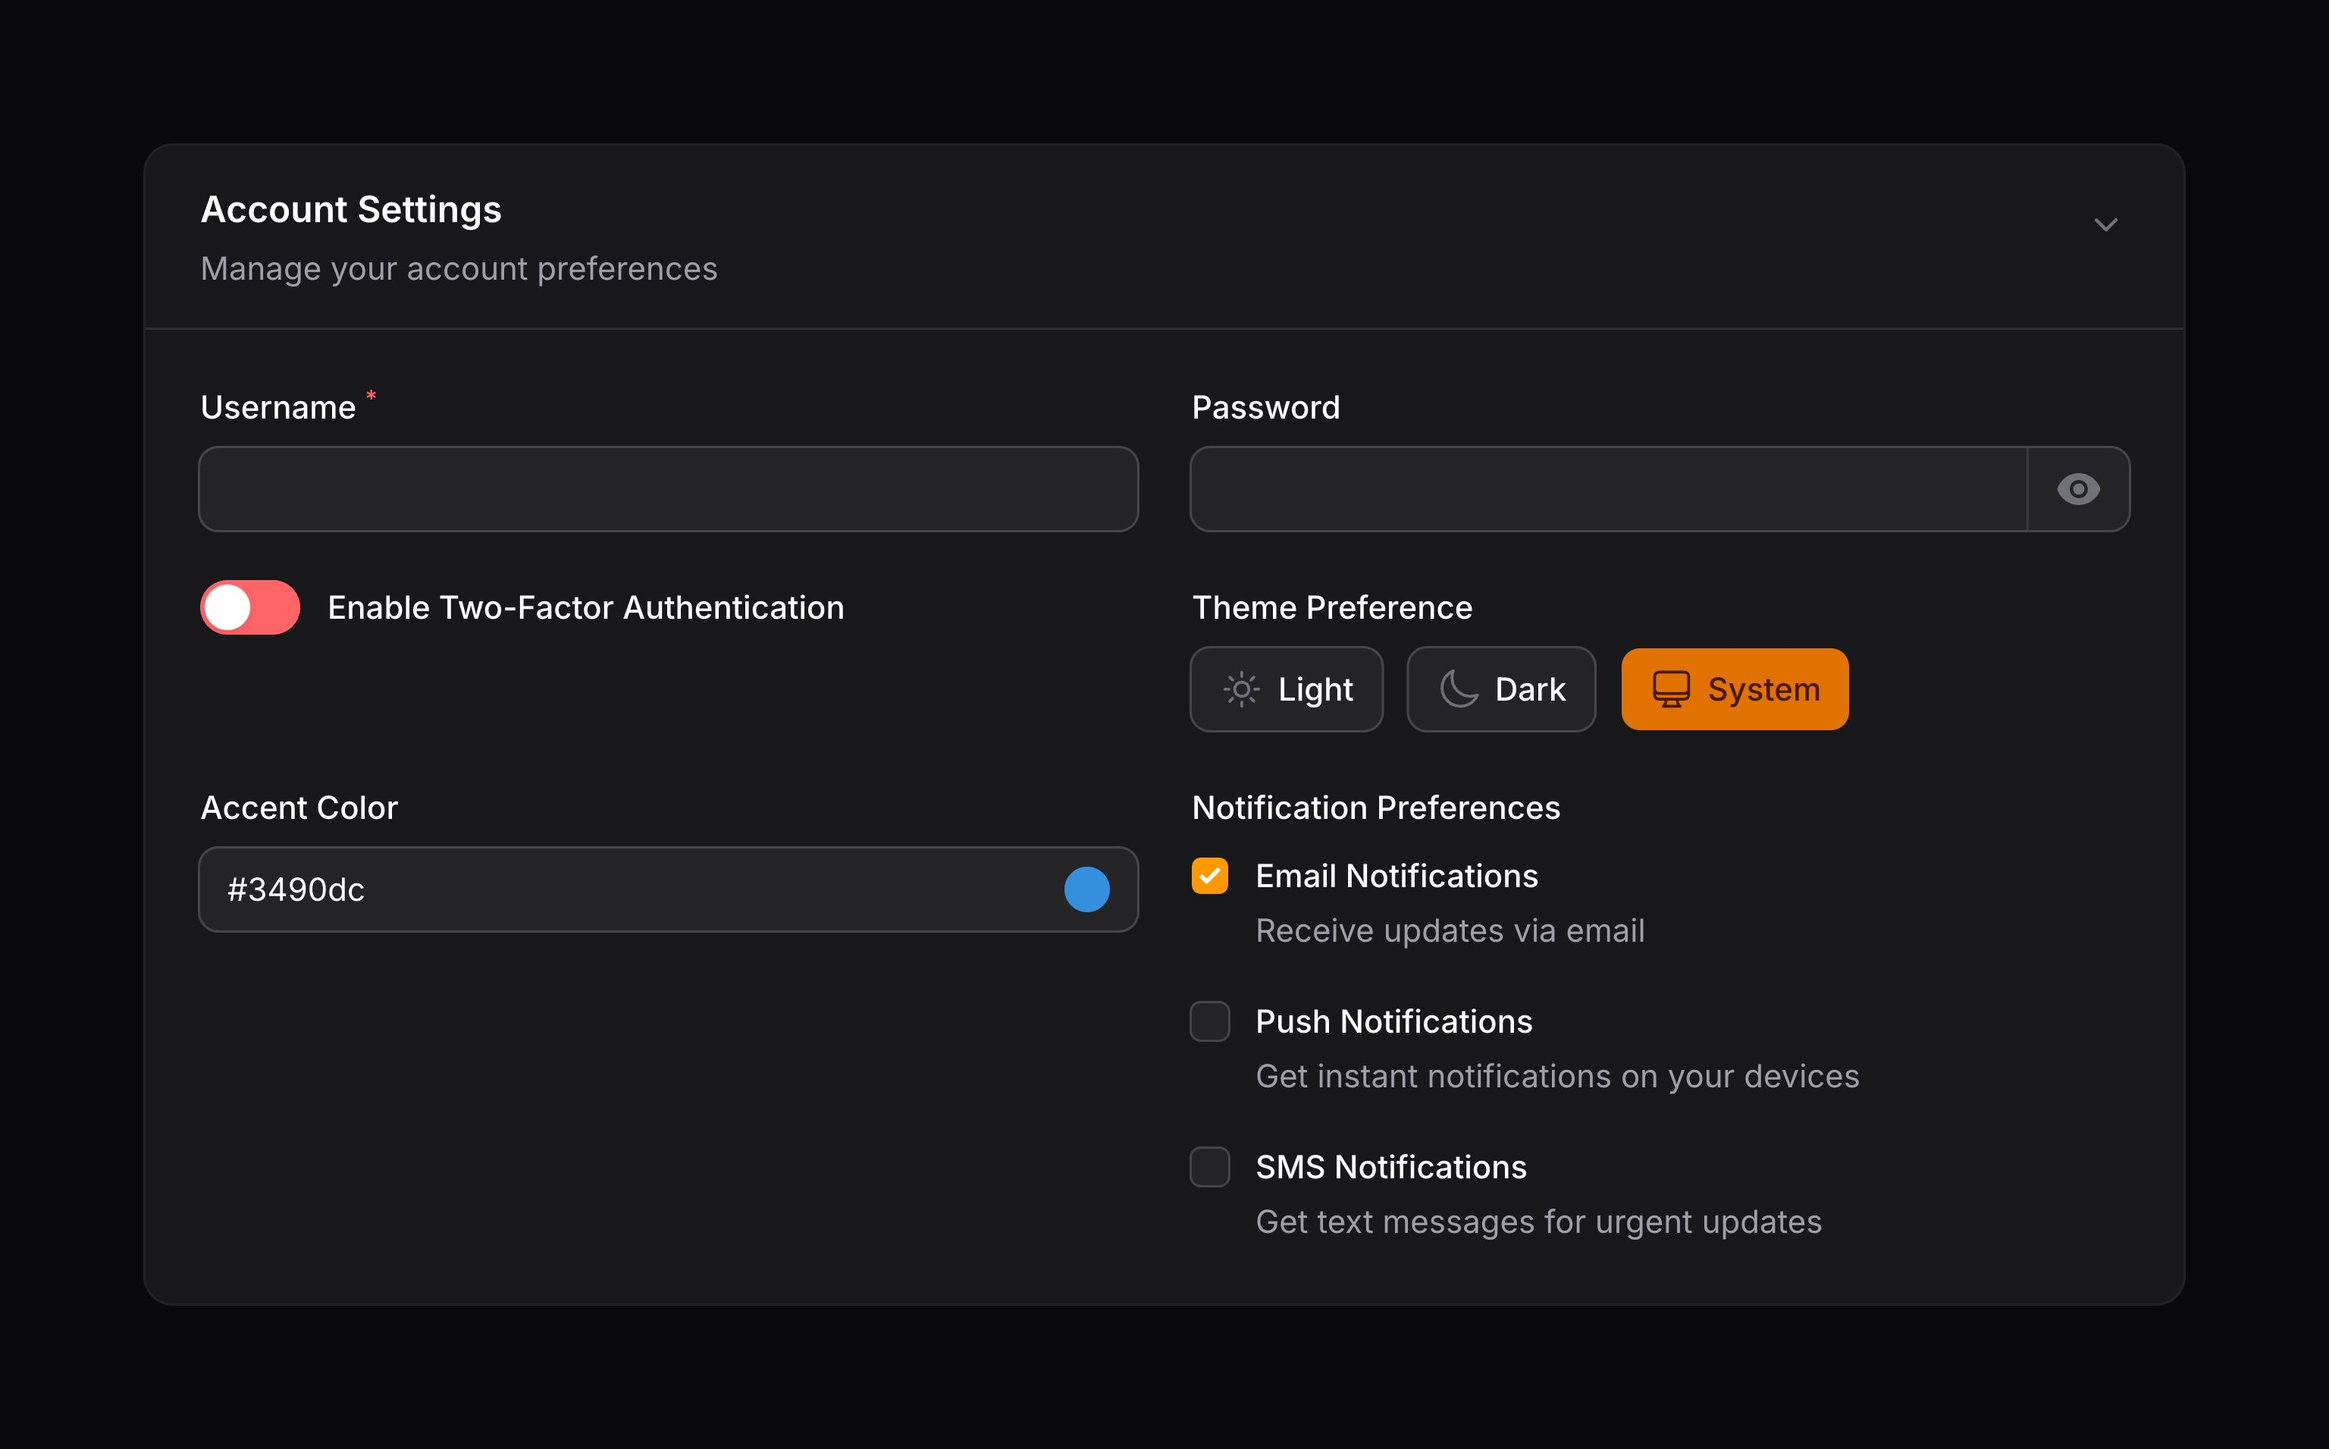
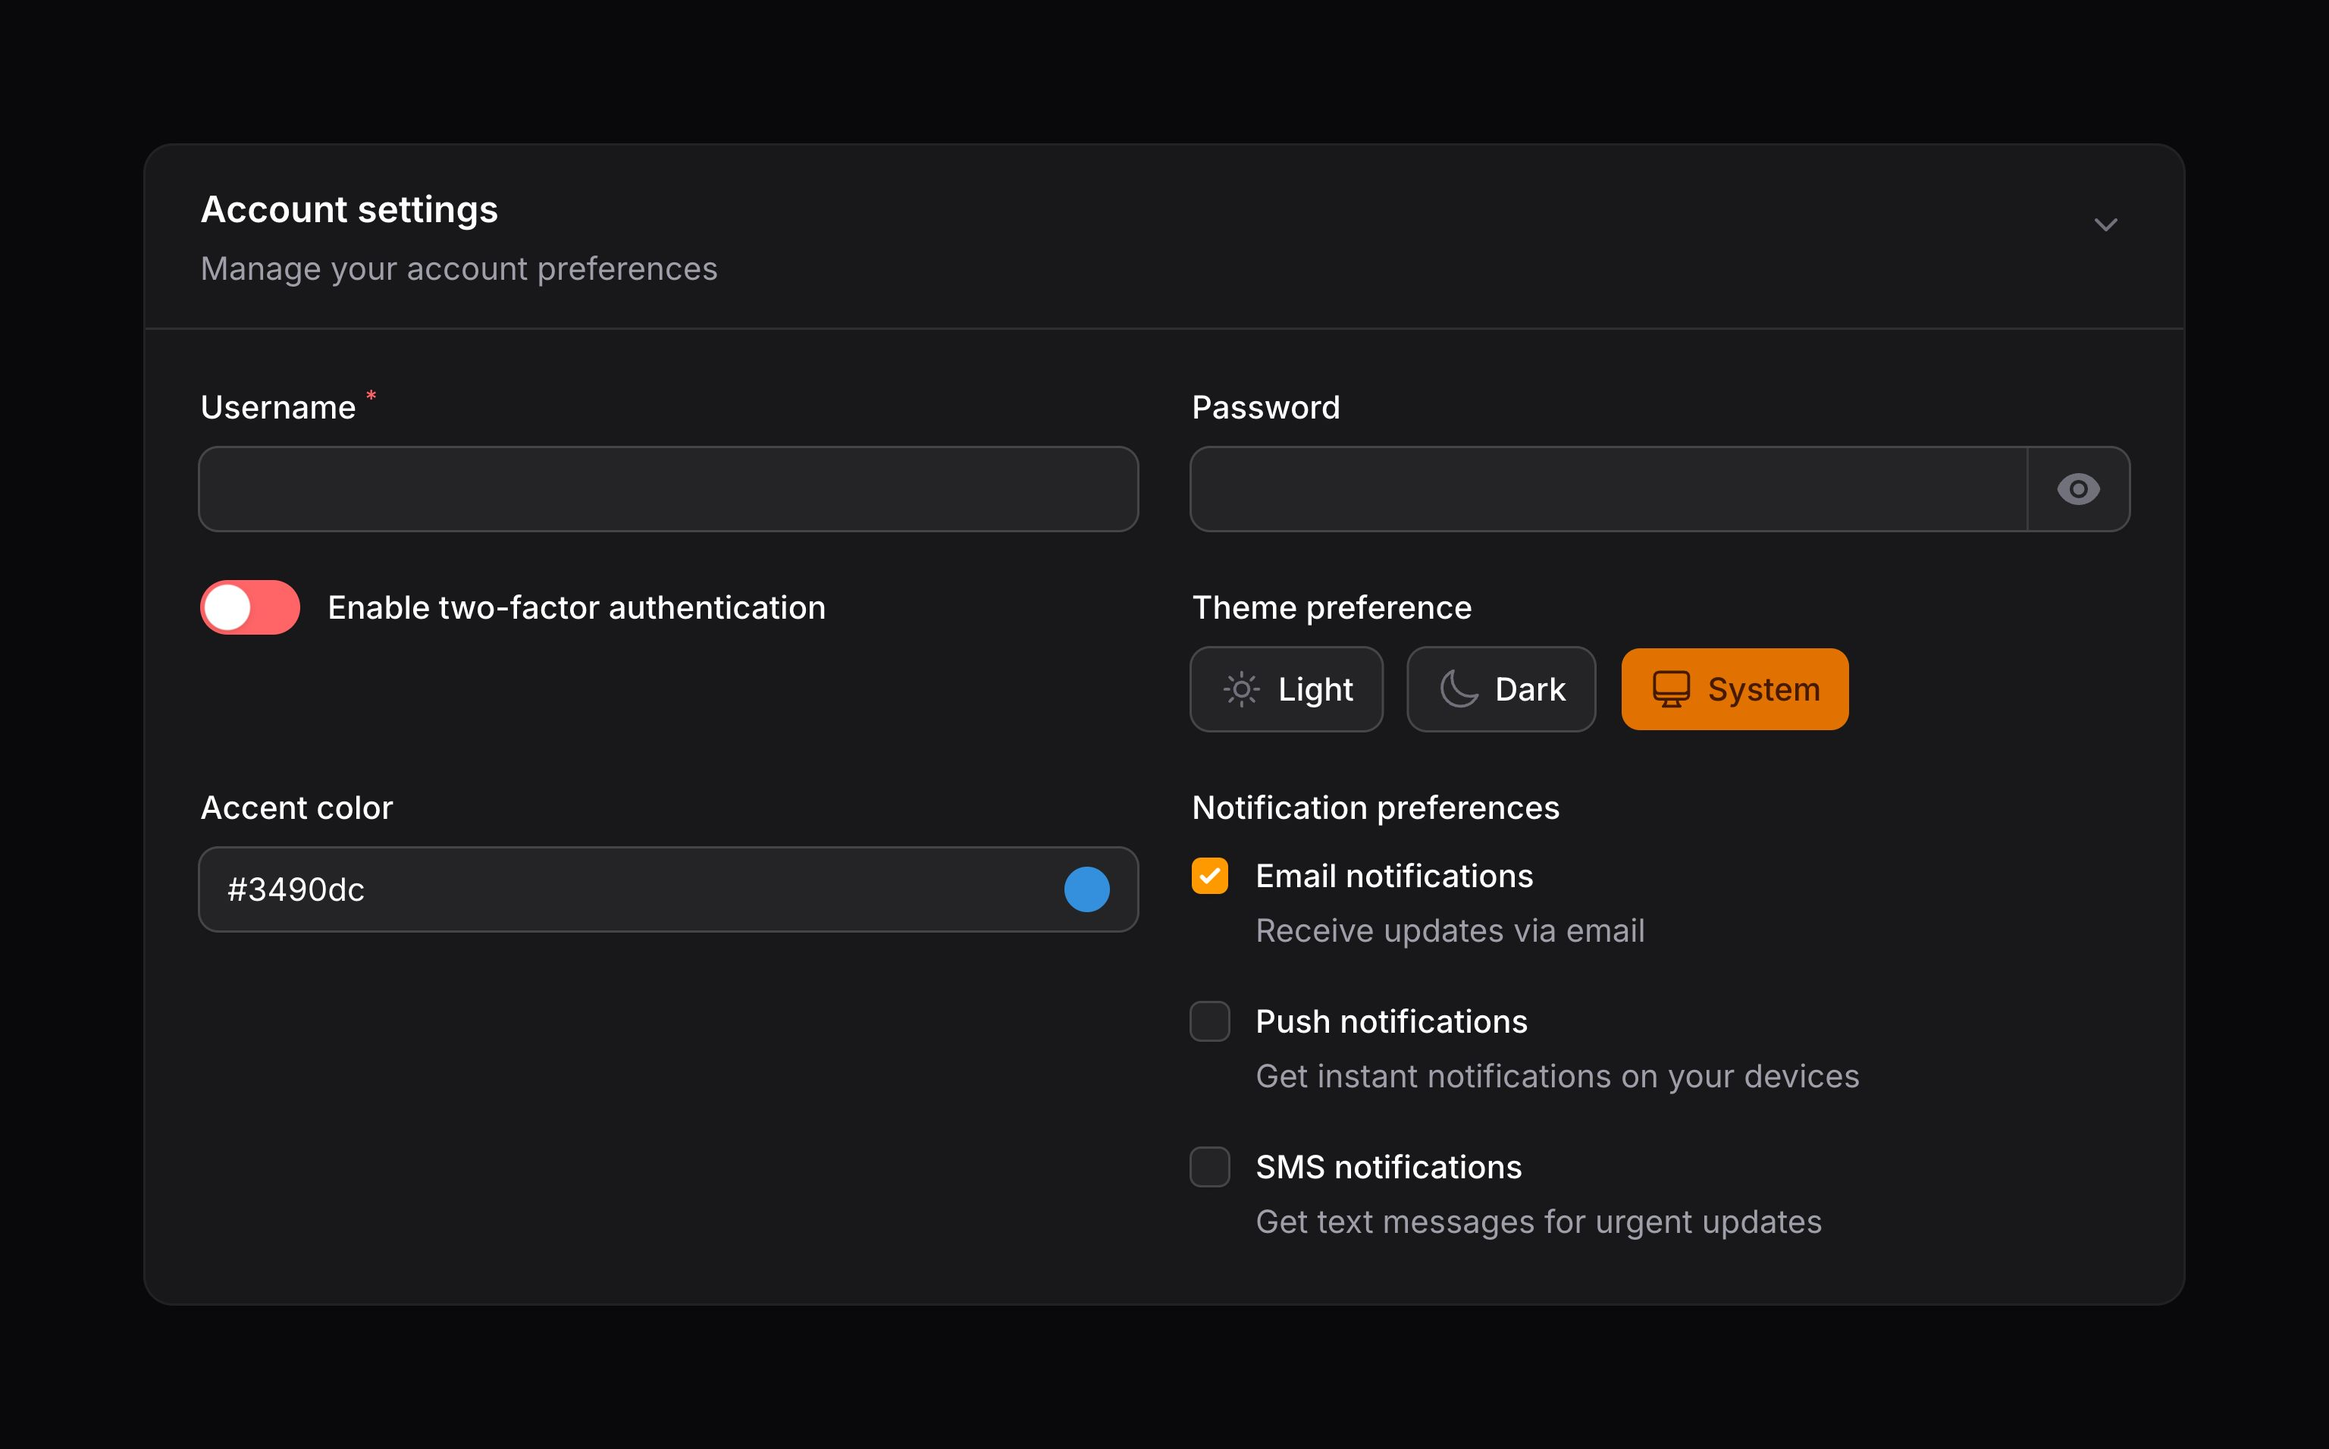
clean up

diff --git a/docs-assets/app/vite.config.js b/docs-assets/app/vite.config.js
@@ -1,5 +1,5 @@
 import { defineConfig } from 'vite'
-import laravel, {refreshPaths} from 'laravel-vite-plugin'
+import laravel, { refreshPaths } from 'laravel-vite-plugin'
 import tailwindcss from '@tailwindcss/vite'
 
 export default defineConfig({

diff --git a/docs-assets/app/app/Livewire/Infolists/EntriesOverview.php b/docs-assets/app/app/Livewire/Infolists/EntriesOverview.php
@@ -38,7 +38,7 @@ class EntriesOverview extends Component implements HasSchemas
                         'class' => 'p-16 max-w-6xl',
                     ])
                     ->schema([
-                        Section::make('Product Information')
+                        Section::make('Product information')
                             ->description('Detailed information about the product')
                             ->icon(Heroicon::Wallet)
                             ->collapsible()
@@ -48,7 +48,7 @@ class EntriesOverview extends Component implements HasSchemas
                                 Grid::make(3)
                                     ->schema([
                                         TextEntry::make('name')
-                                            ->label('Product Name')
+                                            ->label('Product name')
                                             ->weight(FontWeight::Bold)
                                             ->size(TextSize::Large)
                                             ->state('Premium Ergonomic Office Chair')
@@ -68,20 +68,20 @@ class EntriesOverview extends Component implements HasSchemas
                                             ->color('gray'),
 
                                         TextEntry::make('status')
-                                            ->label('Stock Status')
+                                            ->label('Stock status')
                                             ->state('in_stock')
                                             ->badge()
-                                            ->formatStateUsing(fn(string $state) => str($state)
+                                            ->formatStateUsing(fn (string $state) => str($state)
                                                 ->replace('_', ' ')
                                                 ->title()
                                             )
-                                            ->icon(fn(string $state): string => match ($state) {
+                                            ->icon(fn (string $state): string => match ($state) {
                                                 'in_stock' => 'heroicon-o-check-circle',
                                                 'low_stock' => 'heroicon-o-exclamation-circle',
                                                 'out_of_stock' => 'heroicon-o-x-circle',
                                                 default => 'heroicon-o-question-mark-circle',
                                             })
-                                            ->color(fn(string $state): string => match ($state) {
+                                            ->color(fn (string $state): string => match ($state) {
                                                 'in_stock' => 'success',
                                                 'low_stock' => 'warning',
                                                 'out_of_stock' => 'danger',
@@ -98,36 +98,26 @@ class EntriesOverview extends Component implements HasSchemas
 
                                         ImageEntry::make('product_image')
                                             ->state('https://cdn.pixabay.com/photo/2021/09/26/11/44/chair-6657315_1280.jpg')
-                                            ->columnSpan(1)
-                                            ->extraImgAttributes([
-                                                'class' => 'rounded-lg max-w-[180px] shadow-md hover:shadow-xl transition-shadow duration-300',
-                                                'alt' => 'Premium Ergonomic Office Chair',
-                                            ]),
+                                            ->columnSpan(1),
                                     ]),
                             ]),
 
-                        Section::make('Pricing & Features')
+                        Section::make('Pricing & features')
                             ->icon(Heroicon::CurrencyDollar)
                             ->description('Information about pricing and features')
                             ->collapsible()
                             ->columnSpan(['lg' => 1])
-                            ->extraAttributes([
-                                'class' => 'rounded-xl',
-                            ])
                             ->schema([
                                 TextEntry::make('price')
                                     ->state('249.99')
                                     ->prefix('$')
                                     ->weight(FontWeight::Bold)
                                     ->size(TextSize::Large)
-                                    ->label('Price')
                                     ->suffix(' USD')
-                                    ->extraAttributes([
-                                        'class' => 'text-primary-600 dark:text-primary-400',
-                                    ]),
+                                    ->color('primary'),
 
                                 IconEntry::make('featured')
-                                    ->label('Featured Product')
+                                    ->label('Featured product')
                                     ->state(true)
                                     ->boolean()
                                     ->trueIcon(Heroicon::Star)
@@ -136,11 +126,8 @@ class EntriesOverview extends Component implements HasSchemas
                                     ->size(IconSize::Large),
 
                                 ColorEntry::make('color_options')
-                                    ->label('Available Colors')
+                                    ->label('Available colors')
                                     ->state(['#000000', '#0047AB', '#8B4513'])
-                                    ->extraAttributes([
-                                        'class' => 'mt-2',
-                                    ])
                                     ->afterStateHydrated(function (ColorEntry $component, array $state) {
                                         $component->tooltip(function (string $color) {
                                             return match ($color) {
@@ -162,11 +149,11 @@ class EntriesOverview extends Component implements HasSchemas
                                         KeyValueEntry::make('specifications')
                                             ->label(false)
                                             ->state([
-                                                'Material' => 'Mesh, Aluminum, High-grade Plastic',
-                                                'Weight Capacity' => '300 lbs',
-                                                'Height Adjustment' => '17" to 21"',
-                                                'Warranty' => '5 Years Limited',
-                                                'Assembly Required' => 'Yes (Tools Included)',
+                                                'Material' => 'Mesh, aluminum, high-grade plastic',
+                                                'Weight capacity' => '300 lbs',
+                                                'Height adjustment' => '17" to 21"',
+                                                'Warranty' => '5 years limited',
+                                                'Assembly required' => 'Yes (Tools Included)',
                                             ])
                                             ->keyLabel('Specification')
                                             ->valueLabel('Details'),
@@ -174,34 +161,9 @@ class EntriesOverview extends Component implements HasSchemas
 
                                 Tabs\Tab::make('Reviews')
                                     ->icon(Heroicon::OutlinedPencilSquare)
-                                    ->badge(fn() => 3)
-                                    ->schema([
-                                        RepeatableEntry::make('reviews')
-                                            ->label(false)
-                                            ->schema([
-                                                TextEntry::make('name')
-                                                    ->label('Reviewer')
-                                                    ->weight(FontWeight::Medium),
-
-                                                TextEntry::make('stars')
-                                                    ->label('Rating')
-                                                    ->formatStateUsing(fn(string $state): string => str_repeat('★', (int)$state) . str_repeat('☆', 5 - (int)$state))
-                                                    ->color(fn(string $state) => (int)$state >= 4 ? 'success' : ((int)$state >= 3 ? 'warning' : 'danger')),
-
-                                                TextEntry::make('comment')
-                                                    ->label('Review')
-                                                    ->markdown(),
-                                            ])
-                                            ->contained()
-                                            ->extraAttributes([
-                                                'class' => 'space-y-4',
-                                            ]),
-                                    ]),
+                                    ->badge(fn () => 3),
                             ])
-                            ->columnSpan(['lg' => 3])
-                            ->extraAttributes([
-                                'class' => 'mt-6',
-                            ]),
+                            ->columnSpan(['lg' => 3]),
                     ])
             ])
             ->constantState([

diff --git a/docs-assets/app/app/Livewire/Forms/FieldsOverview.php b/docs-assets/app/app/Livewire/Forms/FieldsOverview.php
@@ -41,7 +41,7 @@ class FieldsOverview extends Component implements HasActions, HasSchemas
                         'class' => 'p-16 max-w-5xl',
                     ])
                     ->schema([
-                        Section::make('Account Settings')
+                        Section::make('Account settings')
                             ->description('Manage your account preferences')
                             ->columns([
                                 'sm' => 1,
@@ -51,28 +51,21 @@ class FieldsOverview extends Component implements HasActions, HasSchemas
                             ->collapsible()
                             ->schema([
                                 TextInput::make('username')
-                                    ->label('Username')
-                                    ->required()
-                                    ->unique()
-                                    ->minLength(3)
-                                    ->maxLength(30),
+                                    ->required(),
 
                                 TextInput::make('password')
-                                    ->label('Password')
                                     ->password()
-                                    ->revealable()
-                                    ->minLength(8)
-                                    ->dehydrated(false),
+                                    ->revealable(),
 
                                 Toggle::make('two_factor_auth')
-                                    ->label('Enable Two-Factor Authentication')
+                                    ->label('Enable two-factor authentication')
                                     ->helperText('Increase your account security by enabling 2FA')
                                     ->onColor('success')
                                     ->offColor('danger')
                                     ->inline(),
 
                                 ToggleButtons::make('theme_preference')
-                                    ->label('Theme Preference')
+                                    ->label('Theme preference')
                                     ->options([
                                         'light' => 'Light',
                                         'dark' => 'Dark',
@@ -87,15 +80,14 @@ class FieldsOverview extends Component implements HasActions, HasSchemas
                                     ]),
 
                                 ColorPicker::make('accent_color')
-                                    ->label('Accent Color')
                                     ->default('#3490dc'),
 
                                 CheckboxList::make('notifications')
-                                    ->label('Notification Preferences')
+                                    ->label('Notification preferences')
                                     ->options([
-                                        'email' => 'Email Notifications',
-                                        'push' => 'Push Notifications',
-                                        'sms' => 'SMS Notifications',
+                                        'email' => 'Email notifications',
+                                        'push' => 'Push notifications',
+                                        'sms' => 'SMS notifications',
                                     ])
                                     ->descriptions([
                                         'email' => 'Receive updates via email',

diff --git a/packages/infolists/docs/01-overview.md b/packages/infolists/docs/01-overview.md
@@ -7,7 +7,7 @@ import UtilityInjection from "@components/UtilityInjection.astro"
 
 ## Introduction
 
-<AutoScreenshot name="infolists/overview" alt="Example of a Product Infolist" version="4.x" />
+<AutoScreenshot name="infolists/overview" alt="Product infolist example" version="4.x" />
 
 Entry classes can be found in the `Filament\Infolists\Components` namespace. They reside within the schema array of components. Filament includes a number of entries built-in:
 
